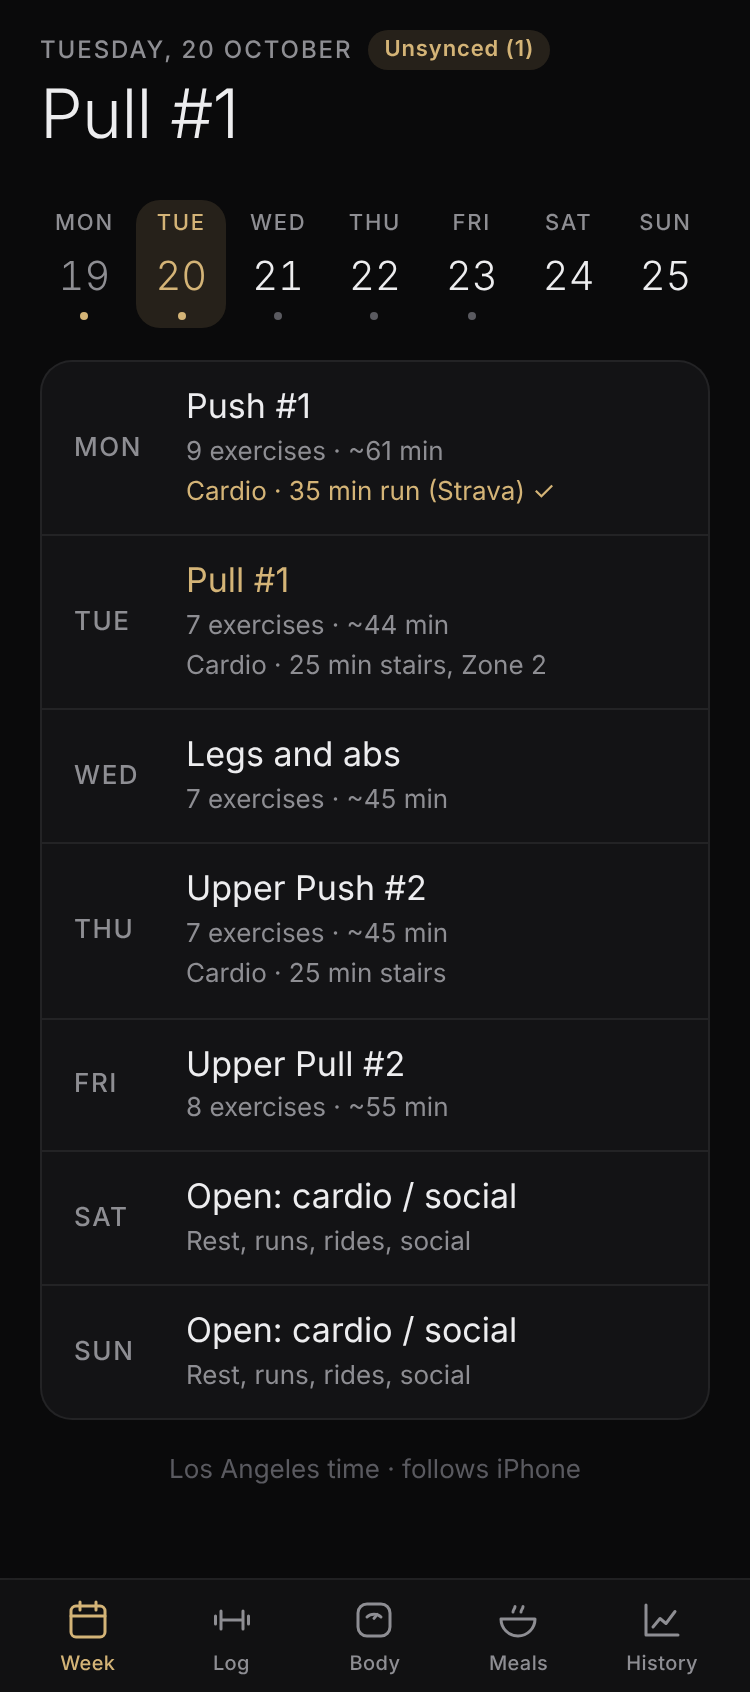
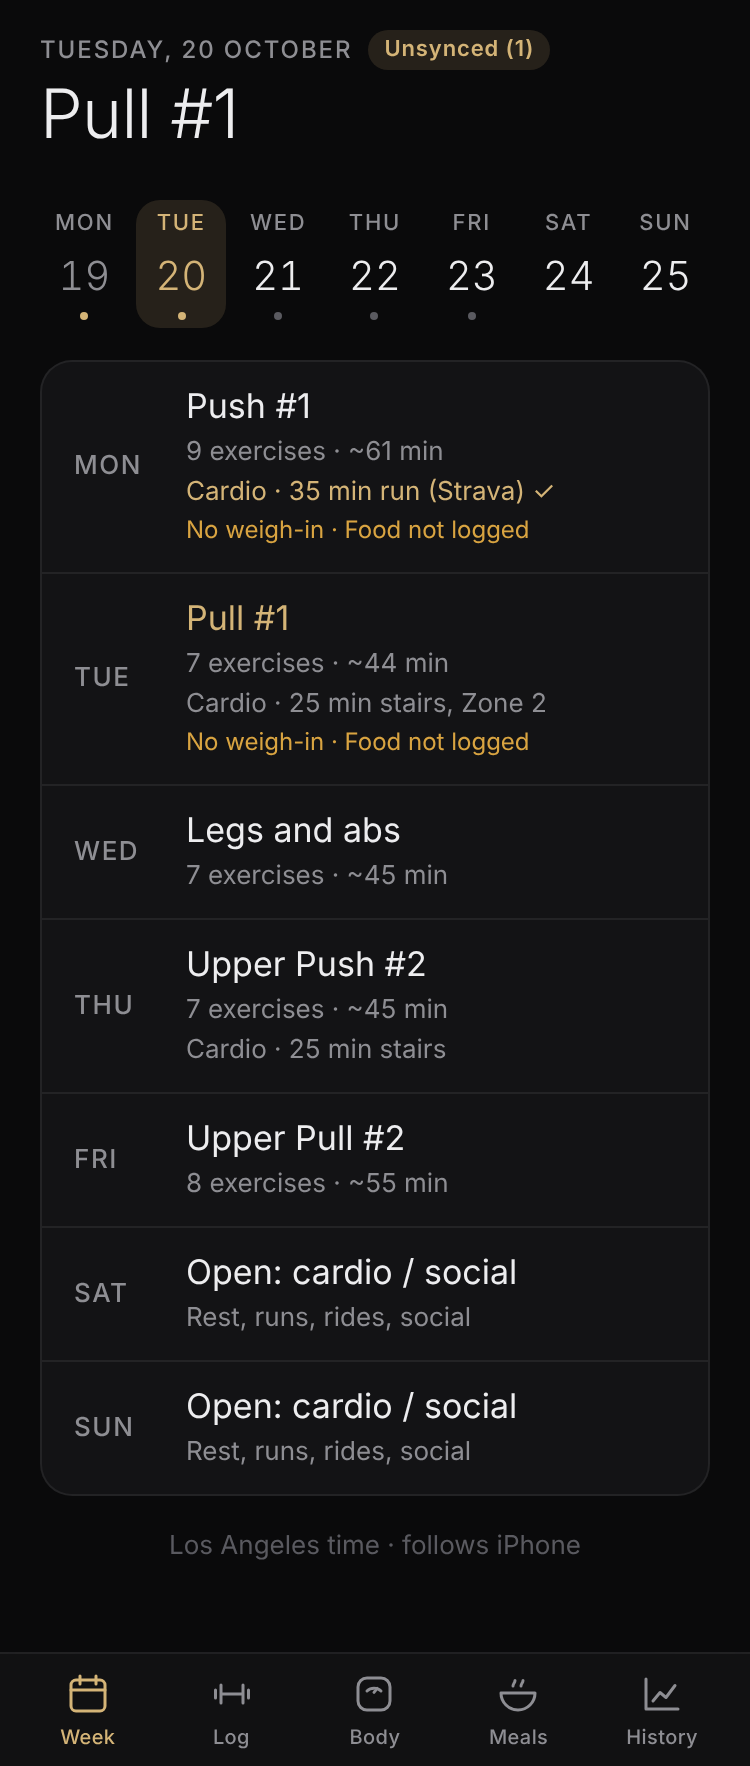
Week: log or fix any day's weight and on-plan from its day sheet
Each day up to today shows "176.0 lb · On plan" (amber when something is
missing), and tapping it opens the Body tab's weight and "On plan?" inputs
for that date. The inputs now live in app/views/day-log.js, shared by both
tabs. An earlier day edits the entry it already has.

Claude-Session: https://claude.ai/code/session_014aJiH9Rgq3VrfiuXciGymN

diff --git a/app/views/body.js b/app/views/body.js
@@ -7,6 +7,7 @@ import { getAll, getMeta, put } from '../db.js';
 import { saveDaily, removeRecord, live } from '../records.js';
 import { newId } from '../seed.js';
 import { exportFlow } from '../import-flow.js';
+import { dayText, weightEntry, onPlanEntry } from './day-log.js';
 import { trendChart } from '../chart.js';
 import { trendFromEntries, rateOverDays, rateStatus } from '../../coach/trend.js';
 import { SITES, siteAverages, navyBodyFat } from '../../coach/body.js';
@@ -44,11 +45,6 @@ function setPref(key, value) {
   try { window.localStorage.setItem(key, value); } catch { /* private mode */ }
 }
 
-const dayText = (date, today) => {
-  if (date === today) return 'Today';
-  if (date === addDays(today, -1)) return 'Yesterday';
-  return `${WEEKDAYS[isoWeekday(date) - 1]} ${formatDayMonth(date)}`;
-};
 const signed = (v, d = 2) => `${v > 0 ? '+' : v < 0 ? '−' : ''}${Math.abs(v).toFixed(d)}`;
 
 export async function render(screen, ctx) {
@@ -96,10 +92,10 @@ export async function render(screen, ctx) {
 
   // "On plan today?" first, so it's tapped every day; the phase selector last (Walter, 2026-10-15)
   screen.append(
-    sectionLabel('On plan today?'), onPlanCard(ctx, { taps, today, tz }),
+    sectionLabel('On plan today?'), onPlanCard(ctx, { taps, today }),
     sectionLabel('Weight'),
     ...(healthMissing(remote, today) ? [h('div', { class: 'chip-row' }, healthChip(healthShortcut(remote, today)), h('span', { class: 'muted xsmall' }, 'Today’s Health data isn’t in yet.'))] : []),
-    weightCard(ctx, { weighins, today, tz, lastTrend }));
+    weightCard(ctx, { weighins, today, lastTrend }));
 
   // Entry point under Weight: a filled button while the check-in is due (Walter
   // asked for it to look like the weight Update button), a gold link otherwise.
@@ -218,46 +214,26 @@ function confirmModeChange(ctx, to, { measurements }) {
 
 // ---- 2. daily weight ----------------------------------------------------------------------
 
-function weightCard(ctx, { weighins, today, tz, lastTrend }) {
+function weightCard(ctx, { weighins, today, lastTrend }) {
   const date = ui.weightDate;
-  const forDate = weighins.filter((w) => w.local_date === date && w.source !== 'history');
-  const existing = forDate.find((w) => w.tz === tz) || null;
-  const latest = [...weighins].sort((a, b) => (a.local_date < b.local_date ? -1 : 1)).pop();
-  let value = existing ? Number(ctx.fmtWeight(existing.weight_lb)) : null;
-  const field = stepper({
-    value, step: ctx.settings.units === 'kg' ? 0.1 : 0.2, min: 40, max: 400, decimals: 1, unit: ctx.unitLabel(),
-    placeholder: latest ? ctx.fmtWeight(latest.weight_lb) : '', label: 'Weight', onChange: (v) => { value = v; },
-  });
   const dateInput = h('input', { type: 'date', max: today, value: date, 'aria-label': 'Weigh-in date' });
   dateInput.addEventListener('change', () => {
     if (dateInput.value && dateInput.value <= today) { ui.weightDate = dateInput.value; ctx.refresh(); }
   });
   const card = h('div', { class: 'card stack' });
-  const save = h('button', {
-    type: 'button', class: 'btn primary block',
-    onClick: async () => {
-      const v = field.getValue();
-      if (!(v > 0)) { toast('Enter a weight first'); return; }
-      const lb = Math.round(ctx.toLb(v) * 10) / 10;
-      const { edited } = await saveDaily(ctx.db, 'weighins', {
-        localDate: date, tz, prefix: 'w', editable: (r) => r.source === 'app',
-        fields: { weight_lb: lb, source: 'app', backdated: date !== today },
-      });
-      card.classList.add('confirm-pop');
-      toast(`${edited ? 'Updated' : 'Logged'} ${ctx.fmtWeight(lb)} ${ctx.unitLabel()} · ${dayText(date, today)}`);
-      ui.weightDate = today; // a backdated entry is a one-off; come back to today
-      setTimeout(() => ctx.refresh(), 220);
-    },
-  }, existing ? 'Update' : 'Log weight');
   card.append(
     h('div', { class: 'row between' },
       h('label', { class: 'date-chip' }, icon('week', { size: 16 }), dayText(date, today), dateInput),
       lastTrend ? h('span', { class: 'muted xsmall num' }, `Trend ${ctx.fmtWeight(lastTrend.trend)} ${ctx.unitLabel()}`) : null),
-    field,
-    save,
-    h('p', { class: 'muted xsmall', style: 'margin:0' }, existing
-      ? `Logged ${ctx.fmtWeight(existing.weight_lb)} ${ctx.unitLabel()}${date === today ? ' this morning' : ''}. Change it and tap Update.`
-      : 'Morning, fasted, after the bathroom. Missed a day? Tap the date to backdate.'));
+    weightEntry(ctx, {
+      date, weighins, today,
+      hint: 'Morning, fasted, after the bathroom. Missed a day? Tap the date, or the day on the Week tab.',
+      onSaved: () => {
+        card.classList.add('confirm-pop');
+        ui.weightDate = today; // a backdated entry is a one-off; come back to today
+        setTimeout(() => ctx.refresh(), 220);
+      },
+    }));
   return card;
 }
 
@@ -478,26 +454,7 @@ function editWeighin(ctx, w) {
 
 // ---- 6. on plan today ------------------------------------------------------------------------
 
-function onPlanCard(ctx, { taps, today, tz }) {
-  const mine = taps.filter((t) => t.local_date === today).sort((a, b) => ((a.updated_utc || '') < (b.updated_utc || '') ? 1 : -1));
-  const current = mine.find((t) => t.tz === tz) || mine[0] || null;
-  let kcal = current && current.kcal ? current.kcal : null;
-  let picked = current ? current.status : null;
-  const save = async (status) => {
-    await saveDaily(ctx.db, 'adherence', { localDate: today, tz, prefix: 'plan', fields: { status, kcal: status === 'yes' ? null : kcal } });
-  };
-  const kcalField = stepper({
-    value: kcal, step: 50, min: 0, max: 8000, unit: 'kcal', compact: true, label: 'Estimated kcal today', placeholder: '2400',
-    onChange: async (v) => { kcal = v; if (picked) await save(picked); },
-  });
-  const kcalWrap = h('div', { class: 'stack-sm', style: picked && picked !== 'yes' ? '' : 'display:none' },
-    h('span', { class: 'label' }, 'Estimated kcal (optional)'), kcalField);
-  const seg = segmented([{ value: 'yes', label: 'Yes' }, { value: 'partial', label: 'Partial' }, { value: 'off', label: 'Off' }], picked, async (v) => {
-    picked = v;
-    await save(v);
-    kcalWrap.style.display = v === 'yes' ? 'none' : '';
-    toast(v === 'yes' ? 'On plan today' : v === 'partial' ? 'Partly on plan today' : 'Off plan today: not used for the TDEE estimate');
-  }, { label: 'On plan today' });
-  return h('div', { class: 'card stack' }, seg, kcalWrap,
-    h('p', { class: 'muted xsmall', style: 'margin:0' }, 'Feeds the weekly adherence check: macros change only on weeks at 90 % or better.'));
+function onPlanCard(ctx, { taps, today }) {
+  return h('div', { class: 'card stack' }, onPlanEntry(ctx, { date: today, taps, today }),
+    h('p', { class: 'muted xsmall', style: 'margin:0' }, 'Feeds the weekly adherence check: macros change only on weeks at 90 % or better. Missed a day? Tap it on the Week tab.'));
 }

diff --git a/app/views/day-log.js b/app/views/day-log.js
@@ -1,0 +1,106 @@
+// The weigh-in and "On plan?" inputs, shared by the Body tab (today) and the Week tab's day
+// sheets (any day up to today), so a forgotten day can be filled in or fixed later with the
+// same controls (Walter, 2026-10-17).
+import { h, toast, segmented, stepper } from '../ui.js';
+import { saveDaily, live } from '../records.js';
+import { addDays, formatDayMonth, isoWeekday, WEEKDAYS } from '../../coach/time.js';
+
+export const dayText = (date, today) => {
+  if (date === today) return 'Today';
+  if (date === addDays(today, -1)) return 'Yesterday';
+  return `${WEEKDAYS[isoWeekday(date) - 1]} ${formatDayMonth(date)}`;
+};
+
+const newestFirst = (a, b) => ((a.updated_utc || '') < (b.updated_utc || '') ? 1 : -1);
+
+// The entry a day's input shows and edits. Today: only one made in the current zone, so a
+// date repeated after crossing the date line gets its own entry (spec §2b). An earlier day:
+// the newest entry for that date, edited in its own zone.
+function entryFor(records, date, tz, today) {
+  const mine = records.filter((r) => r.local_date === date).sort(newestFirst);
+  return mine.find((r) => r.tz === tz) || (date === today ? null : mine[0] || null);
+}
+
+export function weighinFor(weighins, date, tz, today) {
+  return entryFor(live(weighins).filter((w) => w.source !== 'history'), date, tz, today);
+}
+
+export function tapFor(taps, date, tz, today) {
+  const t = entryFor(live(taps), date, tz, today);
+  if (t || date !== today) return t;
+  return live(taps).filter((x) => x.local_date === date).sort(newestFirst)[0] || null; // shown, not edited
+}
+
+// Weight stepper + Log/Update button + a hint line. onSaved runs after the record is written.
+export function weightEntry(ctx, { date, weighins, today, hint = null, onSaved = null }) {
+  const tz = ctx.tz();
+  const existing = weighinFor(weighins, date, tz, today);
+  const latest = [...live(weighins)].filter((w) => w.local_date <= date).sort((a, b) => (a.local_date < b.local_date ? -1 : 1)).pop();
+  const field = stepper({
+    value: existing ? Number(ctx.fmtWeight(existing.weight_lb)) : null,
+    step: ctx.settings.units === 'kg' ? 0.1 : 0.2, min: 40, max: 400, decimals: 1, unit: ctx.unitLabel(),
+    placeholder: latest ? ctx.fmtWeight(latest.weight_lb) : '', label: 'Weight',
+  });
+  const info = h('p', { class: 'muted xsmall', style: 'margin:0' });
+  const btn = h('button', { type: 'button', class: 'btn primary block' });
+  const show = (rec) => {
+    btn.textContent = rec ? 'Update' : 'Log weight';
+    info.textContent = rec
+      ? `Logged ${ctx.fmtWeight(rec.weight_lb)} ${ctx.unitLabel()}${date === today ? ' this morning' : ''}. Change it and tap Update.`
+      : hint || 'Morning, fasted, after the bathroom.';
+  };
+  show(existing);
+  let rec = existing;
+  btn.addEventListener('click', async () => {
+    const v = field.getValue();
+    if (!(v > 0)) { toast('Enter a weight first'); return; }
+    const lb = Math.round(ctx.toLb(v) * 10) / 10;
+    const { record, edited } = await saveDaily(ctx.db, 'weighins', {
+      localDate: date, tz: rec ? rec.tz : tz, prefix: 'w', editable: (r) => r.source === 'app',
+      fields: { weight_lb: lb, source: 'app', backdated: date !== today },
+    });
+    rec = record;
+    show(rec);
+    toast(`${edited ? 'Updated' : 'Logged'} ${ctx.fmtWeight(lb)} ${ctx.unitLabel()} · ${dayText(date, today)}`);
+    if (onSaved) onSaved(record);
+  });
+  return h('div', { class: 'stack' }, field, btn, info);
+}
+
+// Yes / Partial / Off, plus an optional kcal estimate when not fully on plan. Saves on tap.
+export function onPlanEntry(ctx, { date, taps, today, onSaved = null }) {
+  const current = tapFor(taps, date, ctx.tz(), today);
+  // today: the current zone's entry (spec §2b); an earlier day: edit the entry it already has
+  let tz = date !== today && current ? current.tz : ctx.tz();
+  let kcal = current && current.kcal ? current.kcal : null;
+  let picked = current ? current.status : null;
+  const when = date === today ? 'today' : `on ${dayText(date, today)}`;
+  const save = async (status) => {
+    const { record } = await saveDaily(ctx.db, 'adherence', { localDate: date, tz, prefix: 'plan', fields: { status, kcal: status === 'yes' ? null : kcal } });
+    tz = record.tz;
+    if (onSaved) onSaved(record);
+  };
+  const kcalField = stepper({
+    value: kcal, step: 50, min: 0, max: 8000, unit: 'kcal', compact: true, label: `Estimated kcal ${when}`, placeholder: '2400',
+    onChange: async (v) => { kcal = v; if (picked) await save(picked); },
+  });
+  const kcalWrap = h('div', { class: 'stack-sm', style: picked && picked !== 'yes' ? '' : 'display:none' },
+    h('span', { class: 'label' }, 'Estimated kcal (optional)'), kcalField);
+  const seg = segmented([{ value: 'yes', label: 'Yes' }, { value: 'partial', label: 'Partial' }, { value: 'off', label: 'Off' }], picked, async (v) => {
+    picked = v;
+    await save(v);
+    kcalWrap.style.display = v === 'yes' ? 'none' : '';
+    toast(v === 'yes' ? `On plan ${when}` : v === 'partial' ? `Partly on plan ${when}` : `Off plan ${when}: not used for the TDEE estimate`);
+  }, { label: `On plan ${when}` });
+  return h('div', { class: 'stack' }, seg, kcalWrap);
+}
+
+// Week tab: the day's weight and food in one line ("182.4 lb · On plan", "No weigh-in · Food not logged").
+export function dayLogMeta(ctx, { date, weighins, taps, today }) {
+  if (date > today) return null;
+  const w = weighinFor(weighins, date, ctx.tz(), today) || live(weighins).find((x) => x.local_date === date);
+  const t = tapFor(taps, date, ctx.tz(), today) || live(taps).find((x) => x.local_date === date);
+  const food = t ? { yes: 'On plan', partial: 'Partly on plan', off: 'Off plan' }[t.status] : 'Food not logged';
+  const weight = w ? `${ctx.fmtWeight(w.weight_lb)} ${ctx.unitLabel()}` : 'No weigh-in';
+  return { text: `${weight} · ${food}`, complete: Boolean(w && t) };
+}

diff --git a/app/views/week.js b/app/views/week.js
@@ -7,6 +7,7 @@ import { checkinState, currentPhase, realPhases } from '../../coach/phase.js';
 import { weeklySummary, activeSummaryCheckin } from '../../coach/summary.js';
 import { header, note, sessionList, addonCard } from './common.js';
 import { cardioMeta } from './cardio.js';
+import { weightEntry, onPlanEntry, dayLogMeta } from './day-log.js';
 import { loadTraining, planFor, progressCount } from '../training.js';
 import { planItem } from './log.js';
 import { ensurePlans, planNotice } from '../meal-plans.js';
@@ -20,7 +21,9 @@ const ui = { open: {} };
 
 export async function render(screen, ctx) {
   const today = ctx.today();
-  const [checkins, training, plans] = await Promise.all([getAll(ctx.db, 'checkins'), loadTraining(ctx), ensurePlans(ctx).catch(() => null)]);
+  const [checkins, training, plans, weighins, taps] = await Promise.all([
+    getAll(ctx.db, 'checkins'), loadTraining(ctx), ensurePlans(ctx).catch(() => null), getAll(ctx.db, 'weighins'), getAll(ctx.db, 'adherence'),
+  ]);
   const notice = plans ? planNotice(plans) : null;
   const ci = checkinState(today, ctx.settings.checkin_day, live(checkins));
   const summary = await buildSummary(ctx, { today, checkins: live(checkins), training, plans });
@@ -34,6 +37,14 @@ export async function render(screen, ctx) {
     const c = cardioMeta(training.cardio, date, today);
     return c ? h('p', { class: 'small', style: 'margin:0 0 8px' }, c.text.replace(' · ', ': ')) : null;
   };
+  // Weight and "On plan?" for any day up to today, with the Body tab's controls, so a
+  // forgotten day can be filled in or fixed later (Walter, 2026-10-17).
+  const logSection = (date) => (date > today ? null : h('div', { class: 'stack day-log', 'aria-label': 'Weight and food' },
+    h('p', { class: 'label', style: 'margin:0' }, 'Weight'),
+    weightEntry(ctx, { date, weighins, today, hint: 'The morning’s fasted weigh-in, if you took one.', onSaved: () => ctx.refresh() }),
+    h('p', { class: 'label', style: 'margin:8px 0 0' }, 'On plan?'),
+    onPlanEntry(ctx, { date, taps, today, onSaved: () => ctx.refresh() })));
+  const sheetBody = (date, ...rest) => h('div', { class: 'stack' }, logSection(date), ...rest);
   const openDay = (date) => {
     const day = dayOf(date);
     const logged = sessionsOn(date);
@@ -42,22 +53,22 @@ export async function render(screen, ctx) {
     const title = `${WEEKDAYS[isoWeekday(date) - 1]} ${formatDayMonth(date)}`;
     if (logged.length) {
       const sx = logged[logged.length - 1];
-      openSheet({ title: `${title} · ${sx.day_name}`, subtitle: sx.status === 'finished' ? 'Logged' : 'In progress', body: h('div', {}, cardioLine(date), sessionList(sx, ctx.program)), actions: [{ label: 'Close', kind: 'outline' }] });
+      openSheet({ title: `${title} · ${sx.day_name}`, subtitle: sx.status === 'finished' ? 'Logged' : 'In progress', body: sheetBody(date, cardioLine(date), sessionList(sx, ctx.program)), actions: [{ label: 'Close', kind: 'outline' }] });
       return;
     }
     if (!day || !day.exercises.length) {
-      openSheet({ title: `${title} · Open day`, subtitle: stairs && !cardioLine(date) ? `Stairs ${stairs.minutes} min logged.` : OPEN_DAY, body: cardioLine(date), actions: [{ label: 'Close', kind: 'outline' }] });
+      openSheet({ title: `${title} · Open day`, subtitle: stairs && !cardioLine(date) ? `Stairs ${stairs.minutes} min logged.` : OPEN_DAY, body: sheetBody(date, cardioLine(date)), actions: [{ label: 'Close', kind: 'outline' }] });
       return;
     }
     if (date < today) {
-      openSheet({ title: `${title} · ${day.name}`, subtitle: 'No session logged.', body: cardioLine(date), actions: [{ label: 'Close', kind: 'outline' }] });
+      openSheet({ title: `${title} · ${day.name}`, subtitle: 'No session logged.', body: sheetBody(date, cardioLine(date)), actions: [{ label: 'Close', kind: 'outline' }] });
       return;
     }
     const plan = planFor(ctx, training, day);
     openSheet({
       title: `${title} · ${day.name}`,
       subtitle: `Preview: targets from your last sessions${day.est_min ? ` · ~${day.est_min} min` : ''}.`,
-      body: h('div', {}, cardioLine(date), h('div', { class: 'list' }, plan.map(planItem))),
+      body: sheetBody(date, cardioLine(date), h('div', { class: 'list' }, plan.map(planItem))),
       actions: [{ label: 'Close', kind: 'outline' }],
     });
   };
@@ -91,9 +102,11 @@ export async function render(screen, ctx) {
     }
     // cardio on its own line under the workout (Walter, 2026-10-13)
     const cm = cardioMeta(training.cardio, d, today);
+    const lm = dayLogMeta(ctx, { date: d, weighins, taps, today });
     return h('button', { type: 'button', class: `item day-row${d === today ? ' today' : ''}${logged.length ? ' logged' : ''}`, onClick: () => openDay(d) },
       h('span', { class: 'when' }, WEEKDAYS[isoWeekday(d) - 1]),
-      h('span', { class: 'grow' }, h('div', { class: 'name' }, day ? day.name : '—'), h('div', { class: 'meta' }, meta), cm ? h('div', { class: `meta cardio ${cm.state}` }, cm.text) : null),
+      h('span', { class: 'grow' }, h('div', { class: 'name' }, day ? day.name : '—'), h('div', { class: 'meta' }, meta), cm ? h('div', { class: `meta cardio ${cm.state}` }, cm.text) : null,
+        lm ? h('div', { class: `meta daylog${lm.complete ? '' : ' missing'}` }, lm.text) : null),
       logged.length && logged[logged.length - 1].status === 'finished' ? h('span', { class: 'accent' }, icon('check', { size: 18 })) : null);
   }));
 

diff --git a/app/styles.css b/app/styles.css
@@ -689,3 +689,8 @@ body.resting .screen { padding-bottom: calc(var(--tabbar-h) + var(--bar-safe) + 
 .day-row .meta.cardio.missed { color: var(--text-3); }
 .switch-row { display: flex; align-items: center; justify-content: space-between; gap: 12px; margin: -4px 0 12px; }
 .switch-row .link-btn { padding: 0; margin-left: auto; white-space: nowrap; flex: 0 0 auto; }
+
+/* Week tab: the day's weight + food line, and the log inputs in the day sheet (2026-10-17) */
+.day-row .meta.daylog { margin-top: 2px; font-size: 12px; color: var(--text-2); }
+.day-row .meta.daylog.missing { color: var(--warn); }
+.sheet .day-log { padding-bottom: 16px; margin-bottom: 4px; border-bottom: 1px solid var(--hairline); }

diff --git a/sw.js b/sw.js
@@ -44,6 +44,7 @@ const SHELL_FILES = [
   "app/views/week.js",
   "app/views/log.js",
   "app/views/body.js",
+  "app/views/day-log.js",
   "app/views/meals.js",
   "app/views/history.js",
   "app/views/settings.js",

diff --git a/CLAUDE.md b/CLAUDE.md
@@ -69,6 +69,7 @@ The new service worker installs in the background and waits. Walter sees "Update
 ## Records
 - Daily records (weigh-ins, measurements, check-ins, on-plan taps) are written with `saveDaily()` in `app/records.js`: saving again for a date edits that day's entry made in the same zone.
 - Nothing is hard-deleted in the app. `removeRecord()` leaves a tombstone (`deleted: true`, `deleted_utc`) so sync and a newer-wins merge can't resurrect it. Read with `live()`.
+- The weigh-in and "On plan?" inputs live in `app/views/day-log.js`, shared by the Body tab (today) and the Week tab's day sheets (any day up to today), so a forgotten day can be filled in later (Walter, 2026-10-17). An earlier day edits the entry it already has, in that entry's zone.
 - Mode switches never change the current week: they're saved to `mode_changes` and `settings.pending_mode`, and `applyPendingMode()` (`coach/phase.js`) makes them take effect on-device on the next prep day.
 
 ## Training (stage 3)

diff --git a/claude/APP_SPEC.md b/claude/APP_SPEC.md
@@ -147,6 +147,7 @@ Dark only (no light theme). The feel is a premium instrument: quiet, precise, lo
 ### 4.1 Week
 - Mon–Sun strip for the current week in local time; today highlighted. Mon–Fri show the session name (Push #1, Pull #1, Legs and abs, Upper Push #2, Upper Pull #2); Sat/Sun show "Open: cardio / social" plus any Strava activity logged.
 - Tap a day to open that day's workout (logging view for today; read-only for past days; preview of targets for future days).
+- Every day up to today also shows its weight and food ("176.0 lb · On plan", or "No weigh-in · Food not logged" in amber), and its sheet opens with the Body tab's weight and "On plan?" inputs, so a forgotten day can be filled in or corrected later. Saving again edits that day's entry (Walter, 2026-10-17).
 - A banner area for plan notices (see §8.4).
 
 ### 4.2 Log (today's session)
